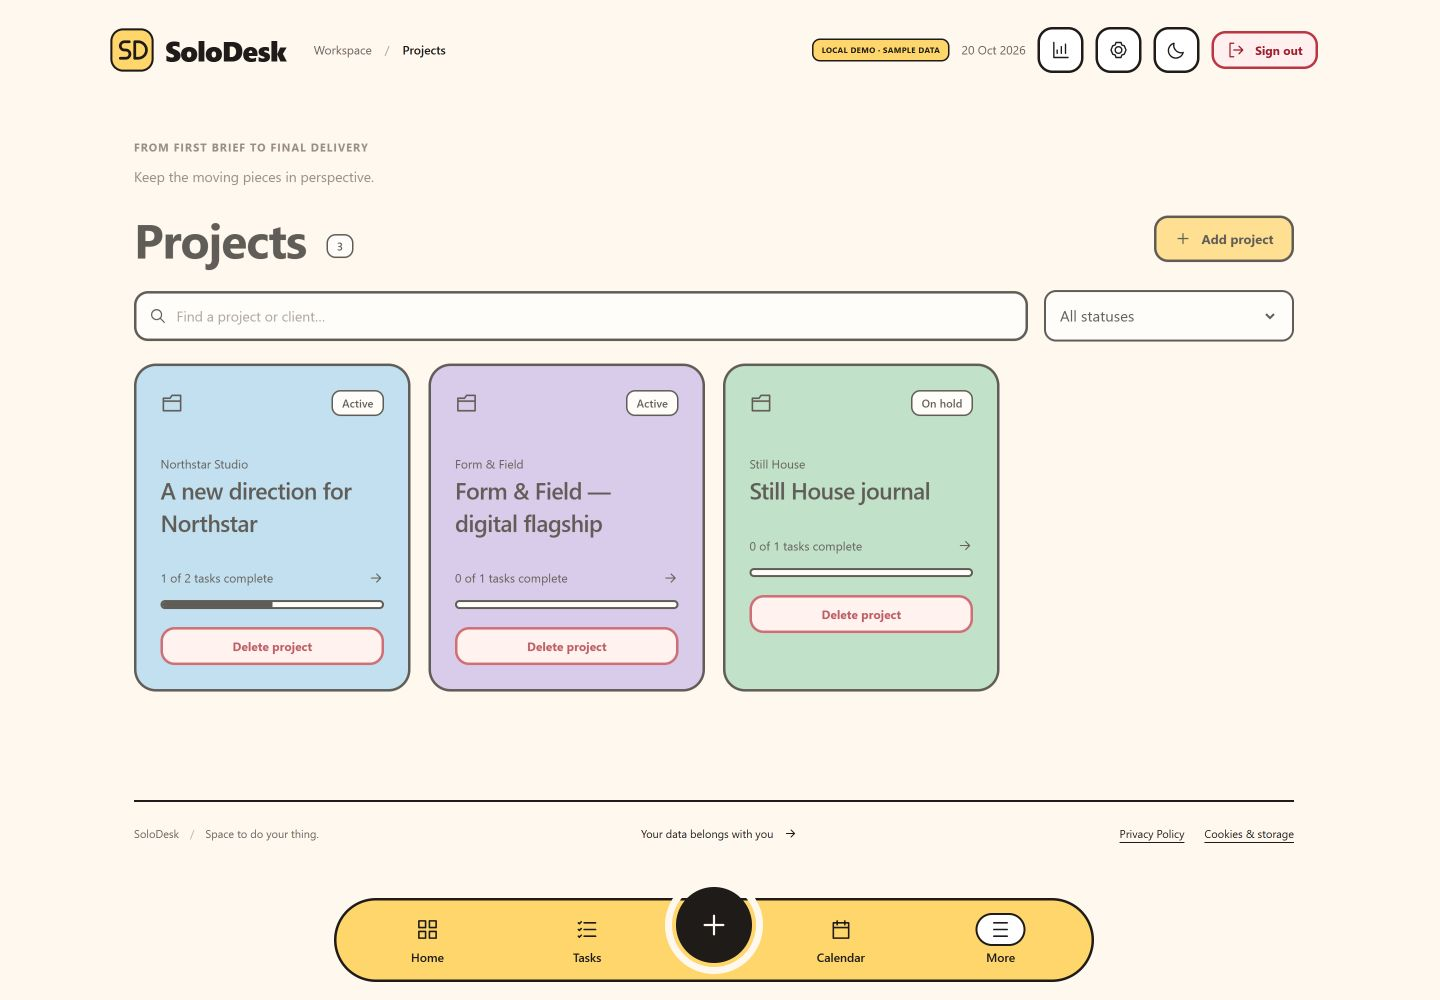
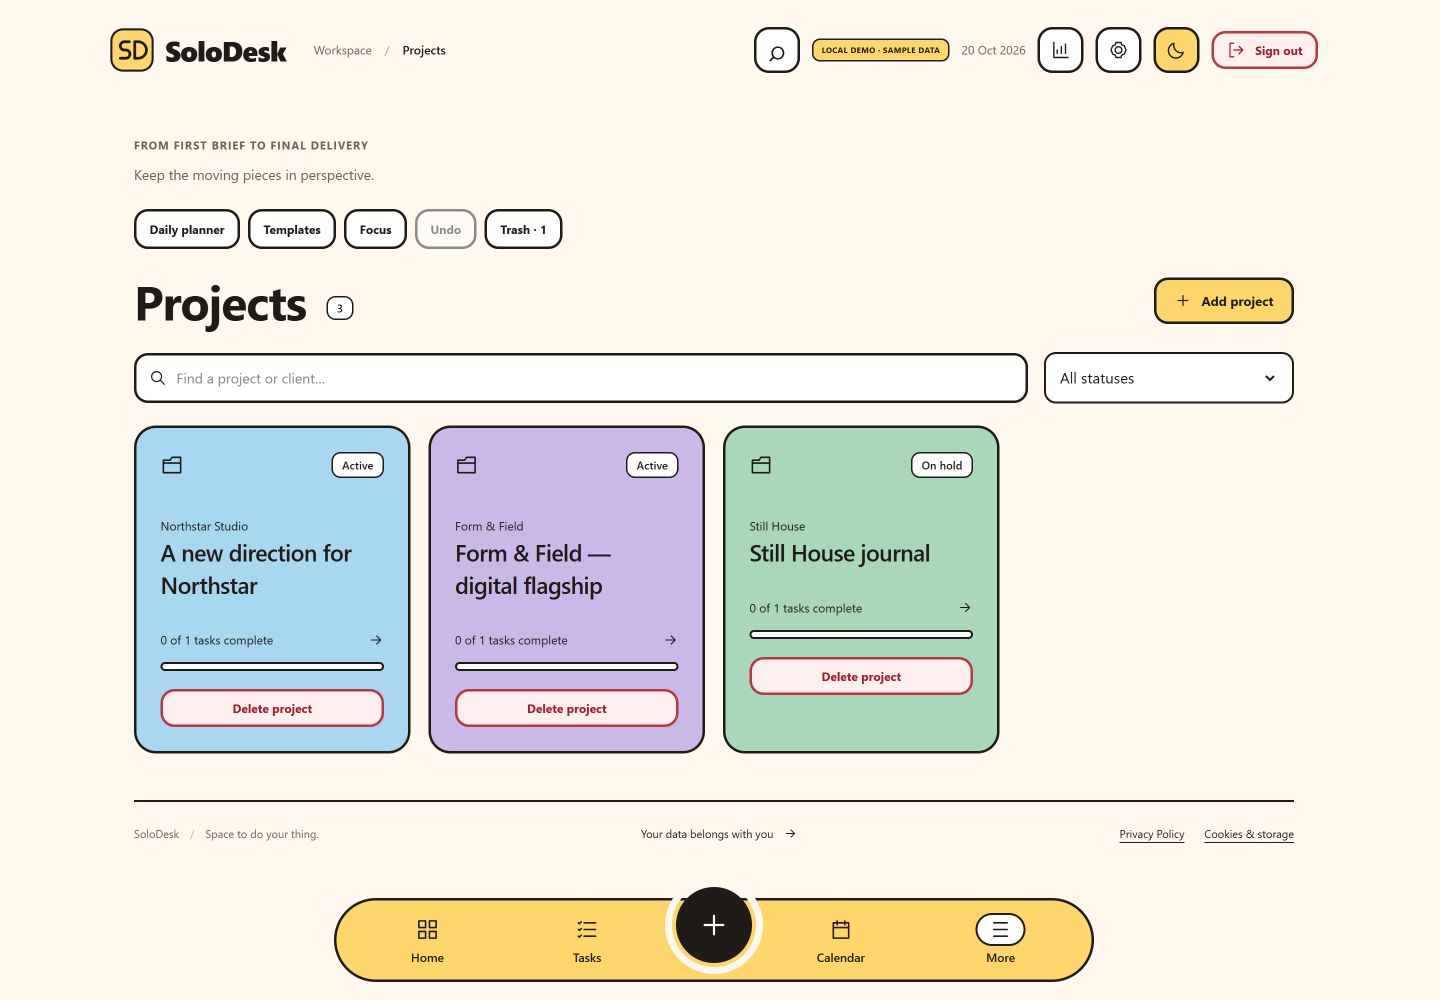
Refresh app screenshot gallery and document productivity workflows

diff --git a/docs/productivity.md b/docs/productivity.md
@@ -1,0 +1,25 @@
+# Planning & productivity guide
+
+Open [SoloDesk](https://taskflow-solodesk.web.app) and sign in, or choose **Explore the demo** to try sample data. Demo changes stay in your browser. The workspace toolbar and **More** menu provide access to the tools below on desktop and mobile.
+
+| Tool | How to use it | Example |
+| --- | --- | --- |
+| **Daily planner** | Open Daily planner, choose a date and working hours, then schedule a task with a start time and duration. | [Planner](screenshots/13-daily-planner-desktop.png) |
+| **Conflicts & free time** | Review overlapping timed work and choose a suggested free slot. You can also open this from Calendar. | [Scheduling suggestions](screenshots/21-conflicts-and-free-time.png) |
+| **Calendar task tray** | Drag an unscheduled SoloDesk task onto a calendar date. Use the planner to give it a timed work block. | [Calendar](screenshots/04-calendar-desktop.png) |
+| **Global search** | Use the header search button or **Ctrl/Command K**, enter a title or name, and select a result. | [Search](screenshots/15-global-search-desktop.png) |
+| **Undo & Trash** | Use Undo for recent changes, or open Trash and choose Restore for a deleted record. | [Trash](screenshots/19-trash-desktop.png) |
+| **Recurring tasks & drafts** | Set a task's repeat option when editing it. Completing it creates its next occurrence. For recurring invoices, create a schedule and choose **Generate due drafts** when due. | [Invoice draft schedules](screenshots/18-recurring-drafts-desktop.png) |
+| **Project templates** | Pick a workflow, client, project name and start date. Create reusable templates from existing project tasks or enter tasks with day offsets; invoice milestones are optional drafts. | [Templates](screenshots/14-project-templates-desktop.png) |
+| **Client timeline** | Open a client to review its linked activity in one timeline. | [Client activity](screenshots/17-client-timeline-desktop.png) |
+| **Focus timer** | Open Focus or start from a task. Pause when needed and choose Finish to log elapsed time toward project totals. | [Focus](screenshots/16-focus-timer-desktop.png) |
+
+## Things to know
+
+- **TaskFlow and Google events are read-only.** Sign in with the same account as TaskFlow to see its shared quests and events. Conflict suggestions use the timed records currently loaded; refresh TaskFlow for its latest Google events. Deadlines and project date ranges do not reserve working time.
+- **Undo is session-only**, with up to 20 changes. Reloading or signing out clears Undo. **Trash persists** in the workspace and does not automatically expire. Restoring a deleted client also restores the linked records removed with it.
+- **Recurring invoice generation is manual.** Each click creates up to 24 due drafts per schedule. These remain unsent; there are no automatic charges or payment follow-up messages.
+- **Focus measures elapsed wall-clock time**, including time while the app is closed, capped at 24 hours per session. Finish records the session.
+- **Activity history keeps the latest 500 entries.** It is a workspace convenience, not an unlimited audit archive.
+
+The [21-image gallery](screenshots/README.md) includes desktop, mobile, dark mode and onboarding examples. See [verification and implementation limits](../qa/productivity-2026-10-20.md) for the tested behavior.

diff --git a/docs/screenshots/README.md b/docs/screenshots/README.md
@@ -2,6 +2,8 @@
 
 Captured from the deployed app on 20 October 2026 using **local demo/sample data**. These images do not show a signed-in user's workspace. Mobile captures use a simulated phone viewport.
 
+The gallery contains **21 screenshots**, including **nine new productivity views**. Existing workspace images were refreshed for the new toolbar. All images are actual app captures; no stock images or invented interface mockups are used. The recurring invoice example is an **unsent draft**.
+
 | Screenshot | Viewport |
 | --- | --- |
 | [Sign-in page](01-sign-in-desktop.png) | 1440 × 1000 |
@@ -16,14 +18,31 @@ Captured from the deployed app on 20 October 2026 using **local demo/sample data
 | [Calendar agenda — mobile](10-calendar-mobile.png) | 390 × 1000 |
 | [Visual onboarding — mobile](11-onboarding-mobile.png) | 390 × 844 |
 | [Guided tour](12-guided-tour-desktop.png) | 1440 × 1000 |
+| [Daily planner](13-daily-planner-desktop.png) | 1440 × 1000 |
+| [Project templates](14-project-templates-desktop.png) | 1440 × 1000 |
+| [Global search](15-global-search-desktop.png) | 1440 × 1000 |
+| [Focus timer](16-focus-timer-desktop.png) | 1440 × 1000 |
+| [Client activity timeline](17-client-timeline-desktop.png) | 1440 × 1000 |
+| [Recurring invoice drafts](18-recurring-drafts-desktop.png) | 1440 × 1000 |
+| [Trash & restoration](19-trash-desktop.png) | 1440 × 1000 |
+| [Daily planner — mobile dark mode](20-planner-mobile-dark.png) | 390 × 844 |
+| [Scheduling conflicts & free time](21-conflicts-and-free-time.png) | 1440 × 1000 |
 
 ## Preview
+
+![Daily planner](13-daily-planner-desktop.png)
+
+![Scheduling overlap and suggested free time](21-conflicts-and-free-time.png)
 
 ![SoloDesk dashboard](02-dashboard-desktop.png)
 
 ![SoloDesk dark dashboard](07-dashboard-dark.png)
 
 <img src="11-onboarding-mobile.png" alt="Visual onboarding on mobile" width="300">
+
+<img src="20-planner-mobile-dark.png" alt="Daily planner on mobile in dark mode" width="300">
+
+See the [productivity guide](../productivity.md) for the workflows shown in these captures.
 
 ## Copy into the main README
 
@@ -34,6 +53,8 @@ These paths are relative to the repository root:
 
 ![Dashboard](docs/screenshots/02-dashboard-desktop.png)
 ![Calendar](docs/screenshots/04-calendar-desktop.png)
+![Daily planner](docs/screenshots/13-daily-planner-desktop.png)
+![Scheduling conflicts](docs/screenshots/21-conflicts-and-free-time.png)
 ![Dark mode](docs/screenshots/07-dashboard-dark.png)
 
 <img src="docs/screenshots/08-dashboard-mobile.png" alt="Mobile dashboard" width="280">

diff --git a/README.md b/README.md
@@ -20,9 +20,19 @@ The workspace now includes a **Daily planner**, scheduling **conflicts and free-
 
 Undo retains 20 changes for the current session; Trash persists in the workspace. Completing a repeating task creates its next occurrence. Recurring invoices require **Generate due drafts** and remain unsent drafts. Focus uses elapsed wall-clock time and logs on Finish. **92 tests and the build pass**; see [verification and limits](qa/productivity-2026-10-20.md).
 
+See the [productivity guide](docs/productivity.md) for where to find each tool and how to use it.
+
 ## Screenshots
 
-Captured from the deployed app using **demo data**. [View all 12 screenshots](docs/screenshots/README.md), including sign-in, projects, invoices, reports and the guided tour.
+Captured from the deployed app on **20 October 2026** using **demo data**. [View all 21 screenshots](docs/screenshots/README.md), including nine new views of the planner, templates, search, focus, client timeline, recurring drafts, Trash and scheduling conflicts. Mobile images use simulated phone viewports.
+
+### Daily planner
+
+![SoloDesk daily planner](docs/screenshots/13-daily-planner-desktop.png)
+
+### Conflicts & free time
+
+![Overlapping work blocks and suggested free time](docs/screenshots/21-conflicts-and-free-time.png)
 
 ### Desktop dashboard
 
@@ -38,7 +48,7 @@ Captured from the deployed app using **demo data**. [View all 12 screenshots](do
 
 ### Mobile & onboarding
 
-<img src="docs/screenshots/08-dashboard-mobile.png" alt="SoloDesk mobile dashboard" width="280"> <img src="docs/screenshots/11-onboarding-mobile.png" alt="SoloDesk visual onboarding on mobile" width="280">
+<img src="docs/screenshots/20-planner-mobile-dark.png" alt="SoloDesk daily planner in mobile dark mode" width="280"> <img src="docs/screenshots/11-onboarding-mobile.png" alt="SoloDesk visual onboarding on mobile" width="280">
 
 ## Run locally
 
